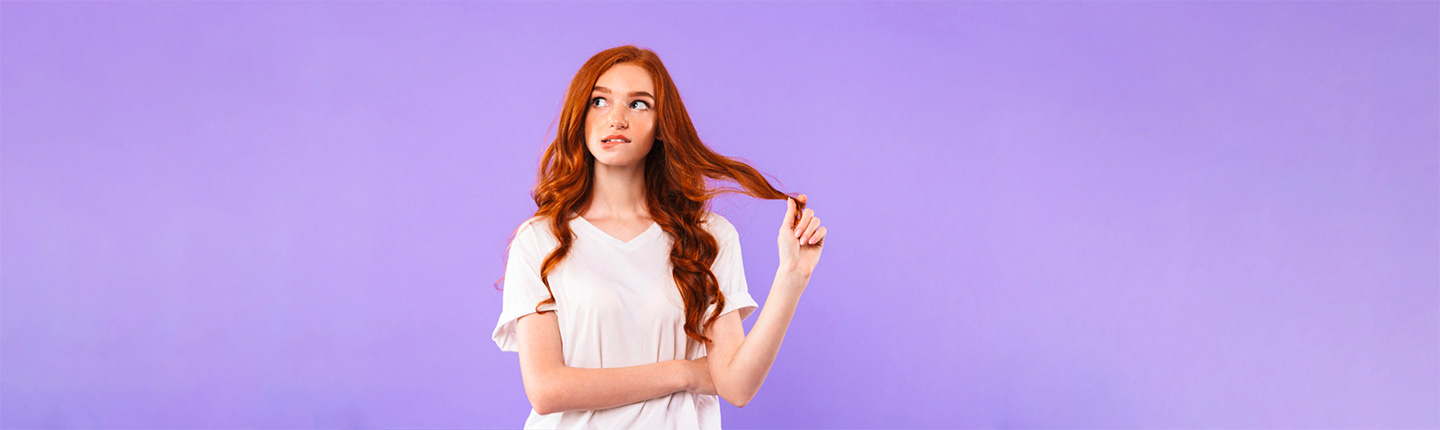
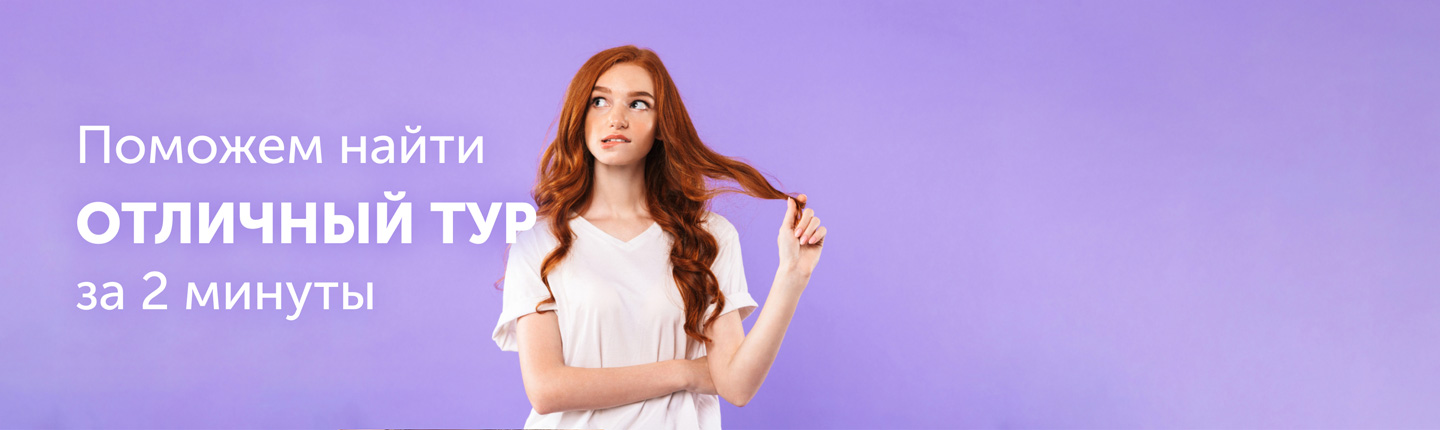
dev...

diff --git a/site/coral.ru/components/TourGuide.vue b/site/coral.ru/components/TourGuide.vue
@@ -1,7 +1,7 @@
 <script setup>
 import BackdropScene from "./BackdropScene.vue";
 import ControlPane from "./ControlPane.vue";
-import { onMounted, provide, reactive, ref } from "vue";
+import { computed, onMounted, provide, reactive, ref } from "vue";
 
 import tourGuideConfig from '../config/decision-tree.yaml'
 
@@ -13,7 +13,12 @@ const breadcrumbs = [currentStepConfig.value];
 
 const backdropSolidFill = ref('transparent');
 const backdropStack = reactive([]);
-provide('backdrop', { backdropSolidFill, backdropStack });
+const foregroundStack = computed(() => {
+    return currentStepConfig.value.choices
+        .filter(choice => choice.selected && choice.foreground)
+        .map(choice => choice.foreground);
+});
+provide('backdrop', { backdropSolidFill, backdropStack, foregroundStack });
 
 const layoutMode = ref('');
 provide('layout-mode', layoutMode);
@@ -34,6 +39,9 @@ function stepBack() {
 }
 provide('flow-control', { stepByKey, stepBack });
 
+const h2MobilePlaceholder = ref(null);
+provide('h2-mobile-placeholder', h2MobilePlaceholder);
+
 onMounted(() => {
     const layout = matchMedia('(max-width:768px)');
     layout.addEventListener('change', e => layoutMode.value = e.matches ? 'mobile' : 'desktop');
@@ -44,6 +52,7 @@ onMounted(() => {
 
 <template>
     <div class="tour-guide-module">
+        <div ref="h2MobilePlaceholder" class="h2-mobile-placeholder"></div>
         <BackdropScene/>
         <ControlPane/>
     </div>
@@ -84,6 +93,19 @@ onMounted(() => {
         font-size: (24/20em);
         font-weight: 700;
         margin: unset;
+    }
+
+    .h2-mobile-placeholder {
+        display: flex;
+        flex-direction: column;
+        align-items: center;
+        text-align: center;
+        padding: 2.5em 2em;
+        grid-area: 1 / 1 / span 1 / span 1;
+        z-index: 1;
+        :deep(h2) {
+            font-size: 2em;
+        }
     }
 
 }

diff --git a/site/coral.ru/components/ProgressNavigation.vue b/site/coral.ru/components/ProgressNavigation.vue
@@ -1,8 +1,12 @@
 <script setup>
 
-import { inject } from "vue";
+import { computed, inject } from "vue";
 
 const { stepBack } = inject('flow-control');
+const stepConfig = inject('current-step-config');
+const anyChoiceSelected = computed(() => {
+    return stepConfig.value.choices.some(choice => choice.selected);
+});
 
 </script>
 
@@ -10,11 +14,12 @@ const { stepBack } = inject('flow-control');
     <div class="progress-navigation">
         <button class="back" @click="stepBack">Назад</button>
         <div class="progress-bar"><div class="filler"></div></div>
-        <button class="skip-proceed">Продолжить</button>
+        <button class="skip-proceed" :class="{ [anyChoiceSelected ? 'proceed' : 'skip']: true }">{{ anyChoiceSelected ? 'Продолжить' : 'Пропустить' }}</button>
     </div>
 </template>
 
 <style scoped lang="less">
+@import "../common/css/coral-colors";
 @import "../common/css/layout";
 .progress-navigation {
     overflow: hidden;
@@ -26,8 +31,11 @@ const { stepBack } = inject('flow-control');
     border-radius: 1em;
     height: (66/20em);
     margin-top: 1em;
-    padding: .5em;
+    padding: .5em .7em;
     .transit(all);
+    @media screen and (max-width: @mobile-breakpoint) {
+        padding: 1.7em .7em;
+    }
     &.slide-enter-from, &.slide-leave-to {
         margin-top: 0;
         height: 0;
@@ -65,6 +73,14 @@ const { stepBack } = inject('flow-control');
             &:after {
                 content: 'keyboard_arrow_right';
                 margin-left: .2em;
+            }
+            &.skip {
+                color: white;
+                background: @coral-ramp-bg;
+            }
+            &.proceed {
+                color: white;
+                background: linear-gradient(46deg, #6BDCFF, #13A0F0);
             }
         }
     }

diff --git a/site/coral.ru/components/StepSimpleChoice.vue b/site/coral.ru/components/StepSimpleChoice.vue
@@ -1,14 +1,21 @@
 <script setup>
 import ChoiceGrid from "./ChoiceGrid.vue";
 import { useStepBehaviour } from "./step-behaviour";
+import { computed, inject } from "vue";
 
 const config = useStepBehaviour();
+
+const h2MobilePlaceholder = inject('h2-mobile-placeholder');
+const layoutMode = inject('layout-mode');
+const isDesktopLayout = computed(() => layoutMode.value === 'desktop');
 
 </script>
 
 <template>
     <div class="step-simple-choice">
-        <h2 v-if="config.h2">{{ config.h2 }}</h2>
+        <Teleport :to="h2MobilePlaceholder" :disabled="isDesktopLayout">
+            <h2 v-if="config.h2">{{ config.h2 }}</h2>
+        </Teleport>
         <h3 v-if="config.h3">{{ config.h3 }}</h3>
         <ChoiceGrid trait="ramp-hover"/>
     </div>
@@ -28,6 +35,7 @@ const config = useStepBehaviour();
     padding: 1em 3em;
     @media screen and (max-width: @mobile-breakpoint) {
         gap: 1em;
+        padding: 2em 3em;
     }
     h2 {
         color: @coral-main-yellow;

diff --git a/site/coral.ru/components/ForegroundStack.vue b/site/coral.ru/components/ForegroundStack.vue
@@ -1,0 +1,40 @@
+<script setup>
+
+import { inject } from "vue";
+
+const { foregroundStack } = inject('backdrop');
+
+
+</script>
+
+<template>
+    <div class="foreground-stack">
+        <TransitionGroup name="slide-in-out">
+            <img v-for="pic in foregroundStack" :src="pic" :key="pic">
+        </TransitionGroup>
+    </div>
+</template>
+
+<style scoped lang="less">
+@import "../common/css/layout";
+.foreground-stack {
+    pointer-events: none;
+    .proportional(500/657);
+    position: absolute;
+    top: auto;
+    bottom: 0;
+    width: 22%;
+    left: 18%;
+    @media screen and (max-width: @mobile-breakpoint) {
+        width: 75%;
+        left: 13%;
+    }
+    >img {
+        .transit(all);
+        &.slide-in-out-enter-from, &.slide-in-out-leave-to {
+            opacity: 0;
+            transform: translateX(-33%);
+        }
+    }
+}
+</style>

diff --git a/site/coral.ru/components/BackdropScene.vue b/site/coral.ru/components/BackdropScene.vue
@@ -1,6 +1,7 @@
 <script setup>
 
 import { inject } from "vue";
+import ForegroundStack from "./ForegroundStack.vue";
 
 const { backdropSolidFill, backdropStack } = inject('backdrop');
 const layoutMode = inject('layout-mode');
@@ -25,6 +26,9 @@ function backdropVisualStyle(idx, collection) {
     <div class="backdrop-scene">
         <div class="visuals-stack">
             <div class="visual" v-for="(visual, idx) in backdropStack" :style="backdropVisualStyle(idx, backdropStack)"></div>
+        </div>
+        <div class="foreground">
+            <ForegroundStack/>
         </div>
     </div>
 </template>
@@ -58,4 +62,5 @@ function backdropVisualStyle(idx, collection) {
 
     }
 }
+
 </style>

diff --git a/site/coral.ru/components/StepIntro.vue b/site/coral.ru/components/StepIntro.vue
@@ -15,6 +15,7 @@ const config = useStepBehaviour();
 </template>
 
 <style scoped lang="less">
+@import "../common/css/layout";
 .step-intro {
     background-color: white;
     border-radius: 1em;
@@ -25,5 +26,8 @@ const config = useStepBehaviour();
     align-items: center;
     text-align: center;
     padding: 1em 3em;
+    @media screen and (max-width: @mobile-breakpoint) {
+        padding: 2em 3em;
+    }
 }
 </style>

diff --git a/site/coral.ru/components/ControlPane.vue b/site/coral.ru/components/ControlPane.vue
@@ -8,7 +8,7 @@ const stepConfig = inject('current-step-config');
 
 <template>
     <div class="control-pane">
-        <Component :is="stepConfig.instance"/>
+        <Component :is="stepConfig.instance" :key="stepConfig.key"/>
         <Transition name="slide">
             <ProgressNavigation v-if="stepConfig.progress"/>
         </Transition>
